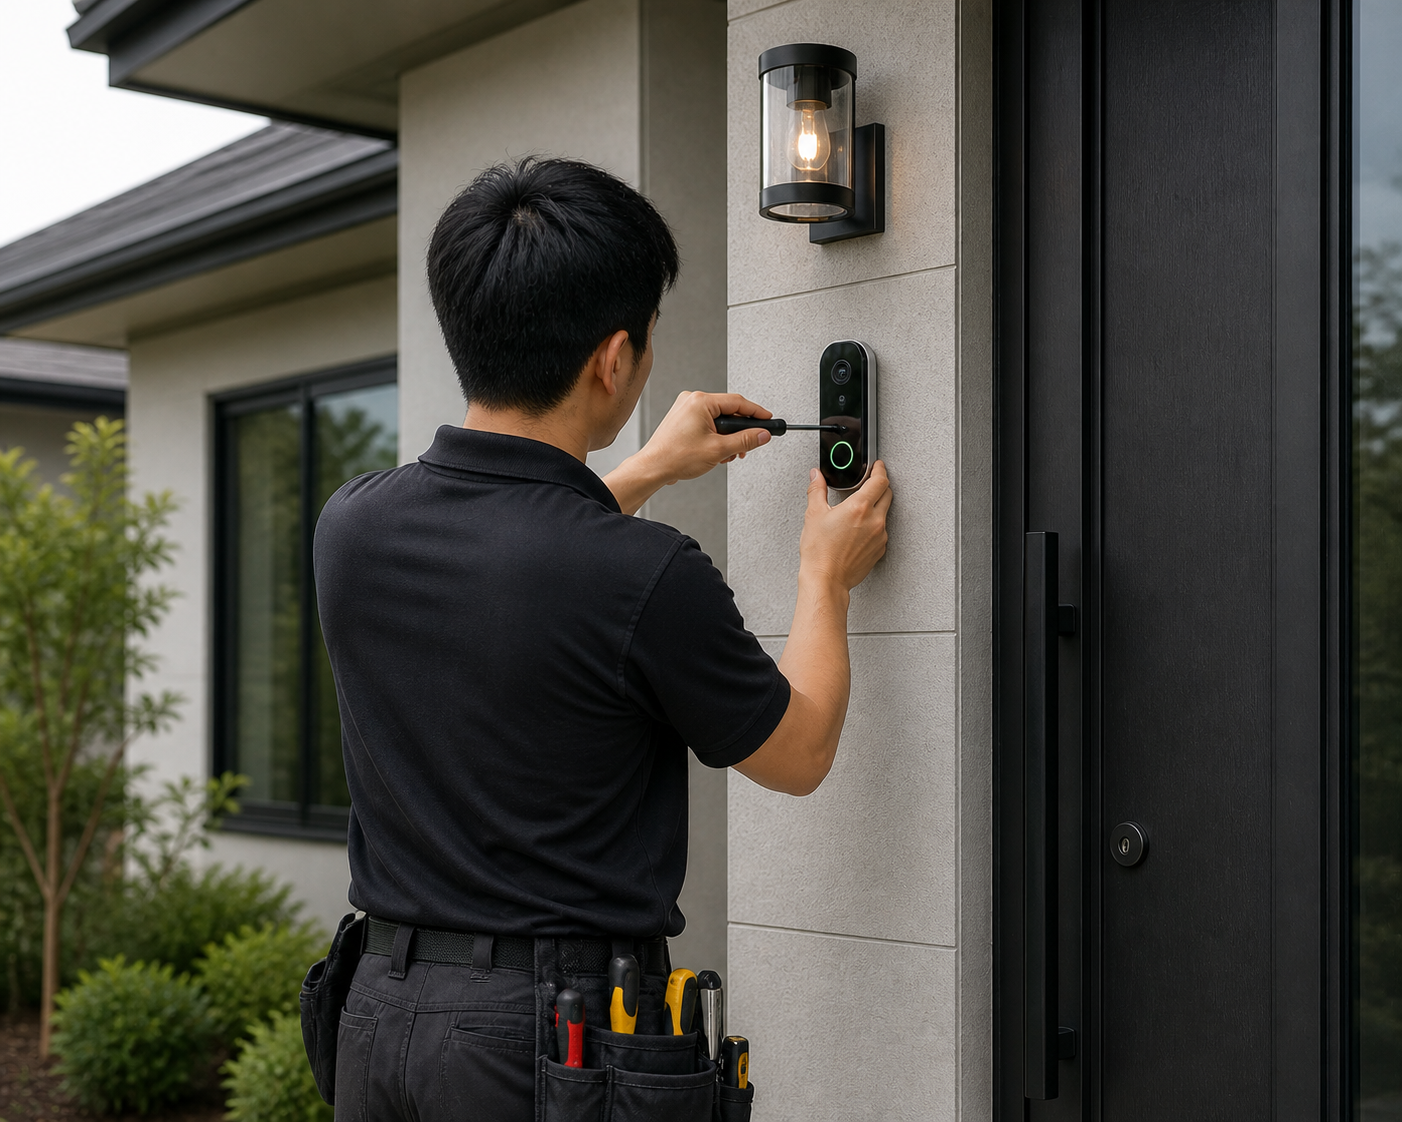
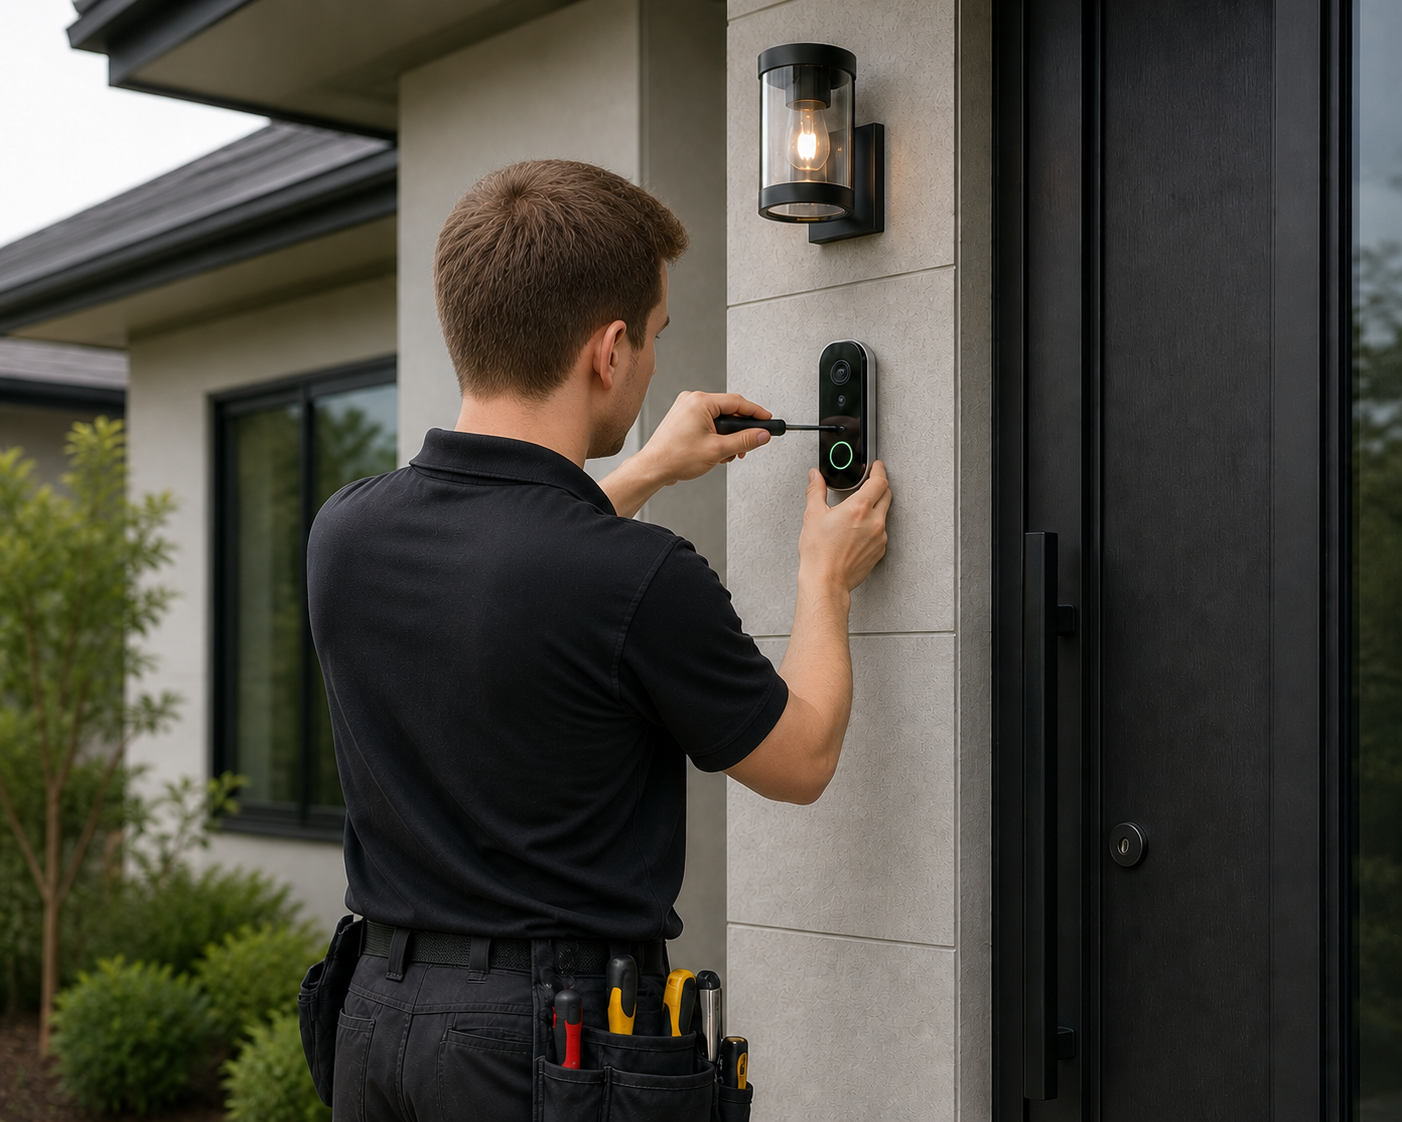
add gallery section and update images

diff --git a/pages/gallery.js b/pages/gallery.js
@@ -1,0 +1,70 @@
+import Header from '../components/Header';
+import Footer from '../components/Footer';
+import Link from 'next/link';
+import { SITE_CONFIG } from '../src/config/site';
+import { useLanguage } from '../src/contexts/LanguageContext';
+
+const posterLayout = [
+    { id: 1, shell: 'lg:col-span-3 lg:mt-2', frame: 'rotate-[-1.2deg]' },
+    { id: 2, shell: 'lg:col-span-3 lg:mt-14', frame: 'rotate-[1.1deg]' },
+    { id: 3, shell: 'lg:col-span-2 lg:-mt-8', frame: 'rotate-[-0.9deg]' },
+    { id: 4, shell: 'lg:col-span-2 lg:mt-10', frame: 'rotate-[0.8deg]' },
+    { id: 5, shell: 'lg:col-span-2 lg:mt-0', frame: 'rotate-[-0.7deg]' },
+    { id: 6, shell: 'lg:col-span-3 lg:mt-6', frame: 'rotate-[1deg]' },
+    { id: 7, shell: 'lg:col-span-3 lg:-mt-10', frame: 'rotate-[-1deg]' },
+];
+
+export default function Gallery() {
+    const { t } = useLanguage();
+
+    return (
+        <>
+            <Header />
+            <main className="site-bg pt-28 md:pt-24">
+                <section className="max-w-6xl mx-auto px-6 pt-14 pb-8">
+                    <div className="rounded-[2rem] border border-stone-300/70 bg-[linear-gradient(140deg,#fffdf8_0%,#f4ecdd_100%)] p-6 shadow-[0_18px_48px_-34px_rgba(24,28,33,0.45)] md:p-10">
+                        <div className="flex items-end justify-between gap-6 flex-wrap">
+                            <div>
+                                <h1 className="display-font text-[1.9rem] leading-tight text-stone-900 md:text-[2.2rem]">
+                                    {t.gallery.heroTitle}
+                                </h1>
+                                {t.gallery.heroSub && (
+                                    <p className="mt-4 max-w-3xl text-stone-700 md:text-lg">
+                                        {t.gallery.heroSub}
+                                    </p>
+                                )}
+                            </div>
+                            <Link href="/services" className="rounded-md border border-stone-400 px-6 py-3 text-sm font-semibold text-stone-800 transition hover:bg-stone-100">
+                                {t.common.viewServices}
+                            </Link>
+                        </div>
+                    </div>
+                </section>
+
+                <section className="max-w-6xl mx-auto px-6 pb-24">
+                    <div className="grid gap-6 md:grid-cols-2 lg:grid-cols-6 xl:gap-8">
+                        {posterLayout.map((poster, index) => (
+                            <article
+                                key={`poster-wall-${poster.id}`}
+                                className={`group ${poster.shell}`}
+                            >
+                                <div className={`rounded-[1.55rem] bg-white/96 p-3 shadow-[0_18px_32px_-26px_rgba(24,28,33,0.42)] transition duration-500 group-hover:-translate-y-1 ${poster.frame}`}>
+                                    <div className="aspect-[543/724] overflow-hidden rounded-[1.1rem] bg-stone-100">
+                                        <img
+                                            src={`${SITE_CONFIG.basePath}/images/gallery/posters/${poster.id}.png`}
+                                            alt={`${t.devices.viewPoster} ${poster.id}`}
+                                            loading={index < 2 ? 'eager' : 'lazy'}
+                                            decoding="async"
+                                            className="h-full w-full object-contain"
+                                        />
+                                    </div>
+                                </div>
+                            </article>
+                        ))}
+                    </div>
+                </section>
+            </main>
+            <Footer />
+        </>
+    );
+}

diff --git a/pages/index.js b/pages/index.js
@@ -12,6 +12,7 @@ const secondaryImage = '/images/home/hero-secondary.png';
 
 export default function Home() {
     const { t } = useLanguage();
+    const adPreviewImages = [1, 2];
     return (
         <>
             <Header />
@@ -138,6 +139,34 @@ export default function Home() {
                         </div>
                     </section>
                 )}
+
+                {/* Device showcase gallery */}
+                <section className="max-w-6xl mx-auto px-6 py-10">
+                    <div className="flex items-end justify-between gap-6 flex-wrap">
+                        <div>
+                            <h2 className="display-font text-3xl text-stone-900">{t.home.devicesTitle}</h2>
+                        </div>
+                        <Link href="/gallery" className="text-sm font-semibold tracking-wide text-stone-700 underline-offset-4 hover:underline">
+                            {t.home.viewProtaiPosters}
+                        </Link>
+                    </div>
+
+                    <div className="mt-6 grid gap-5 md:grid-cols-2">
+                        {adPreviewImages.map((n) => (
+                            <article key={`home-preview-ad-${n}`} className="group overflow-hidden rounded-2xl border border-stone-300 bg-white/95 shadow-[0_14px_30px_-24px_rgba(30,35,40,0.8)] transition hover:-translate-y-0.5">
+                                <div className="aspect-[543/724] overflow-hidden border-b border-stone-200 bg-stone-100 p-3">
+                                    <img
+                                        src={`${SITE_CONFIG.basePath}/images/gallery/posters/${n}.png`}
+                                        alt={`Smart home poster preview ${n}`}
+                                        loading="lazy"
+                                        decoding="async"
+                                        className="h-full w-full object-contain transition duration-500 group-hover:scale-[1.02]"
+                                    />
+                                </div>
+                            </article>
+                        ))}
+                    </div>
+                </section>
 
                 <section className="max-w-6xl mx-auto px-6 pt-8 pb-20">
                     <div className="rounded-3xl border border-stone-300 bg-[#efe4d2] p-8 text-center md:p-10">

diff --git a/src/translations/en.js b/src/translations/en.js
@@ -9,6 +9,7 @@ export const en = {
     home: 'Home',
     services: 'Services',
     devices: 'Devices',
+    gallery: 'Gallery',
     cases: 'Cases',
     about: 'About',
     contact: 'Contact',
@@ -33,8 +34,11 @@ export const en = {
     remotePlanning: 'REMOTE PLANNING',
     remoteDesc: 'Online planning and implementation roadmap.',
     casesTitle: 'Cases',
-    seeMoreCases: 'View More Cases',
+    seeMoreCases: 'View More',
     trustedBy: 'Trusted by local homeowners for dependable smart home setups.',
+    devicesTitle: 'Gallery',
+    protaiPreviewSub: '',
+    viewProtaiPosters: 'View More',
     ctaTitle: 'Ready to start?',
     ctaSub: 'Tell us your goal and budget.',
   },
@@ -141,8 +145,19 @@ export const en = {
     protocolSub: 'We design stable setups across the wireless standards smart homes actually use.',
     brandsTitle: 'Common brands we integrate',
     brandsMore: 'And more brands supported',
+    protaiPostersLabel: 'GALLERY',
+    protaiPostersTitle: 'Gallery',
+    protaiPostersSub: '',
+    openOriginal: 'Open Original Size',
+    previousPoster: 'Previous',
+    nextPoster: 'Next',
+    viewPoster: 'View poster',
     ctaTitle: 'Have a specific brand in mind?',
     ctaSub: 'Send us your current device list. We will confirm what works together and what to avoid.',
+  },
+  gallery: {
+    heroTitle: 'Gallery',
+    heroSub: 'See what is possible, then let us design the right setup for your home.',
   },
   services: {
     heroTitle: 'Find the right service for your home.',

diff --git a/src/translations/zh-cn.js b/src/translations/zh-cn.js
@@ -9,6 +9,7 @@ export const zhCn = {
     home: '首页',
     services: '服务',
     devices: '设备',
+    gallery: 'Gallery',
     cases: '案例',
     about: '关于',
     contact: '联系',
@@ -33,8 +34,11 @@ export const zhCn = {
     remotePlanning: '远程规划',
     remoteDesc: '线上规划与实施路线图。',
     casesTitle: '案例',
-    seeMoreCases: '查看更多案例',
+    seeMoreCases: '查看更多',
     trustedBy: '深受本地业主信赖的可靠智能家居服务。',
+    devicesTitle: 'Gallery',
+    protaiPreviewSub: '',
+    viewProtaiPosters: '查看更多',
     ctaTitle: '准备好开始了吗？',
     ctaSub: '告诉我们您的目标与预算。',
   },
@@ -140,8 +144,19 @@ export const zhCn = {
     protocolSub: '我们在智能家居实际使用的主流无线协议上设计稳定方案。',
     brandsTitle: '常见集成品牌',
     brandsMore: '更多品牌持续接入',
+    protaiPostersLabel: 'GALLERY',
+    protaiPostersTitle: 'Gallery',
+    protaiPostersSub: '',
+    openOriginal: '打开原尺寸',
+    previousPoster: '上一张',
+    nextPoster: '下一张',
+    viewPoster: '查看海报',
     ctaTitle: '有特定品牌想了解？',
     ctaSub: '发送您的现有设备清单，我们确认哪些可以协同使用、哪些需要规避。',
+  },
+  gallery: {
+    heroTitle: 'Gallery',
+    heroSub: '先看灵感，再由我们为你规划最合适的智能家居方案。',
   },
   services: {
     heroTitle: '找到最适合您家的服务。',

diff --git a/src/translations/zh-tw.js b/src/translations/zh-tw.js
@@ -9,6 +9,7 @@ export const zhTw = {
     home: '首頁',
     services: '服務',
     devices: '設備',
+    gallery: 'Gallery',
     cases: '案例',
     about: '關於',
     contact: '聯絡',
@@ -33,8 +34,11 @@ export const zhTw = {
     remotePlanning: '遠端規劃',
     remoteDesc: '線上規劃與實施路線圖。',
     casesTitle: '案例',
-    seeMoreCases: '查看更多案例',
+    seeMoreCases: '查看更多',
     trustedBy: '深受本地屋主信賴的可靠智能家居服務。',
+    devicesTitle: 'Gallery',
+    protaiPreviewSub: '',
+    viewProtaiPosters: '查看更多',
     ctaTitle: '準備好開始了嗎？',
     ctaSub: '告訴我們您的目標與預算。',
   },
@@ -141,8 +145,19 @@ export const zhTw = {
     protocolSub: '我們在智能家居實際使用的無線標準中設計穩定的配置。',
     brandsTitle: '我們整合的常見品牌',
     brandsMore: '更多品牌支援中',
+    protaiPostersLabel: 'GALLERY',
+    protaiPostersTitle: 'Gallery',
+    protaiPostersSub: '',
+    openOriginal: '開啟原尺寸',
+    previousPoster: '上一張',
+    nextPoster: '下一張',
+    viewPoster: '查看海報',
     ctaTitle: '有特定品牌想了解？',
     ctaSub: '傳送您目前的設備清單，我們將確認哪些可以搜配使用、哪些需要避免。',
+  },
+  gallery: {
+    heroTitle: 'Gallery',
+    heroSub: '先看靈感，再由我們為你規劃最適合的智能家居方案。',
   },
   services: {
     heroTitle: '找到適合您家的服務。',

diff --git a/components/Header.js b/components/Header.js
@@ -65,6 +65,7 @@ export default function Header() {
             <Link href="/">{t.nav.home}</Link>
             <Link href="/services">{t.nav.services}</Link>
             <Link href="/devices">{t.nav.devices}</Link>
+            <Link href="/gallery">{t.nav.gallery}</Link>
             {SITE_CONFIG.showProjects && <Link href="/cases">{t.nav.cases}</Link>}
             <Link href="/about">{t.nav.about}</Link>
           </nav>
@@ -83,6 +84,7 @@ export default function Header() {
           <Link href="/">{t.nav.home}</Link>
           <Link href="/services">{t.nav.services}</Link>
           <Link href="/devices">{t.nav.devices}</Link>
+          <Link href="/gallery">{t.nav.gallery}</Link>
           {SITE_CONFIG.showProjects && <Link href="/cases">{t.nav.cases}</Link>}
           <Link href="/about">{t.nav.about}</Link>
         </nav>